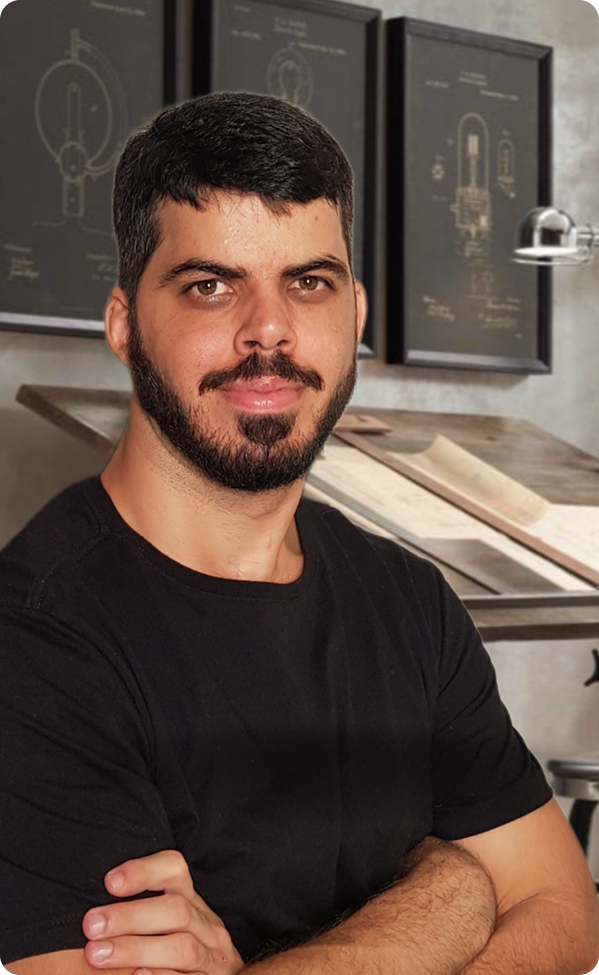
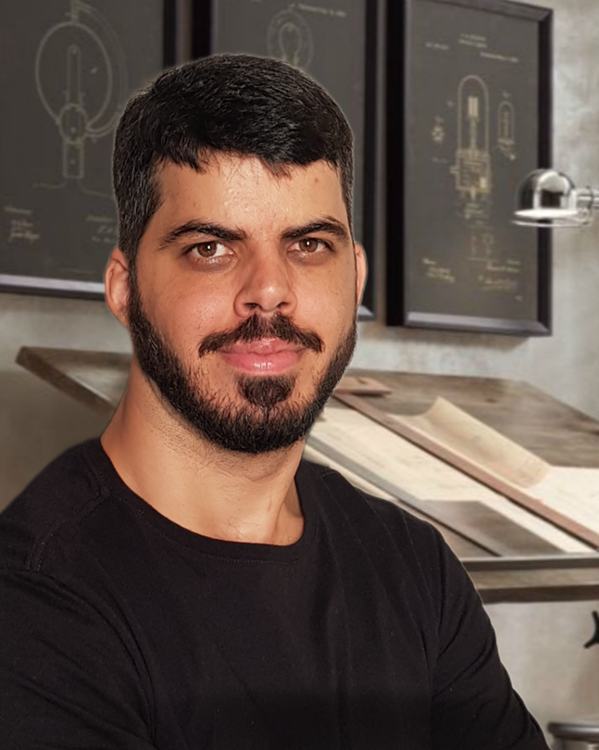
add ajustes

diff --git a/src/styles/professor.css b/src/styles/professor.css
@@ -34,6 +34,7 @@
 
 #img-description img {
     max-width: 40%;
+    border-radius: 20px;
 }
 
 #img-description #description {
@@ -81,7 +82,7 @@
     }
     
     #img-description #description p {
-        font-size: 18px;
+        font-size: 16px;
     }
 }
 
